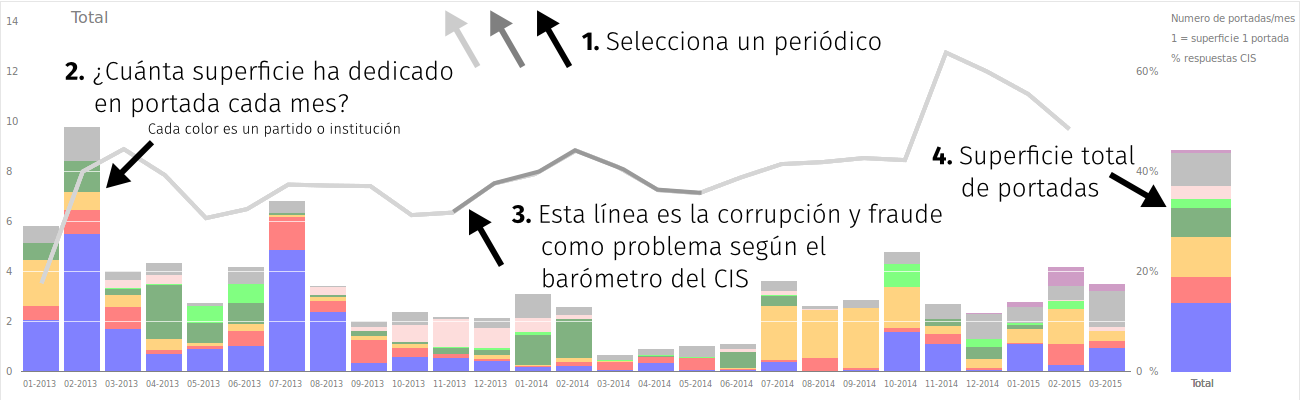
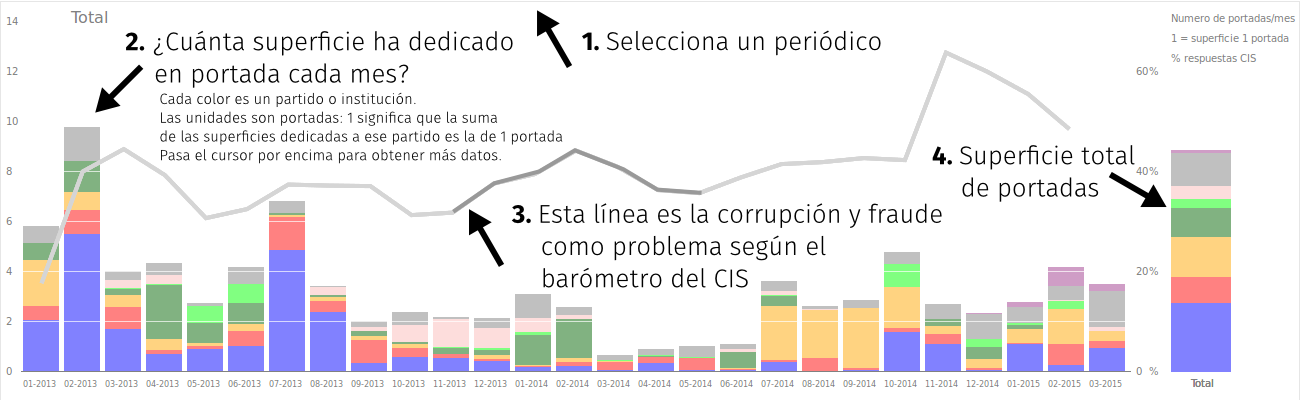
Explains abbreviations in legend

Changed region(s): [[0.0308, 0.03, 0.4308, 0.48]]

diff --git a/index.html b/index.html
@@ -40,17 +40,26 @@
 					<script>!function(d,s,id){var js,fjs=d.getElementsByTagName(s)[0],p=/^http:/.test(d.location)?'http':'https';if(!d.getElementById(id)){js=d.createElement(s);js.id=id;js.src=p+'://platform.twitter.com/widgets.js';fjs.parentNode.insertBefore(js,fjs);}}(document, 'script', 'twitter-wjs');</script> Cobertura de corrupci&oacute;n en portadas de prensa.</p>
 				<h2>Superficie dedicada en portada a casos de corrupci&oacute;n. 2013-2015</h2>
 				<p>Clasificaci&oacute;n por partido pol&iacute;tico o instituci&oacute;n. Datos mensuales.</p>
-				<h5>Leyenda: 
-					<span class="label" style="background-color:blue">PP</span> 
-					<span class="label" style="background-color:red">PSOE</span> 
-					<span class="label" style="background-color:orange">CiU</span> 
-					<span class="label" style="background-color:darkgreen">Casa Real</span> 
-					<span class="label" style="background-color:lime">Bankia</span> 
-					<span class="label" style="background-color:#FBBBB9">UGT-A y CCOO</span>
-					<span class="label" style="background-color:#9e398b">Podemos</span>
-					<span class="label" style="background-color:grey">Otros</span>
-					<img src="img/cis-line.png"> Corrupci&oacute;n y fraude como problema (Bar&oacute;metro CIS)
-				</h5>
+				<div class="row">
+					<div class="col-md-1">
+						<h4>Leyenda</h4>
+					</div>
+					<div class="col-md-11">
+						<p>
+							<span class="label" style="background-color:blue"><abbr title="Partido Popular">PP</abbr></span>
+							<span class="label" style="background-color:red"><abbr title="Partido Socialista Obrero Español (también incluye al PSC, Partido Socialista de Cataluña)">PSOE</span>
+							<span class="label" style="background-color:orange"><abbr title="Convergència i Unió">CiU</span>
+							<span class="label" style="background-color:darkgreen"><abbr title="Casa Real">Casa Real</span>
+							<span class="label" style="background-color:lime"><abbr title="Cajamadrid y Bankia">Bankia</span>
+							<span class="label" style="background-color:#FBBBB9"><abbr title="Los sindicatos mayoritarios Unión General de Trabajadores y Comisiones Obreras">UGT-A y CCOO</span>
+							<span class="label" style="background-color:#9e398b"><abbr title="Partido político Podemoss">Podemos</span>
+							<span class="label" style="background-color:grey">Otros</span>
+						</p>
+						<p>
+							<img src="img/cis-line.png"> Corrupci&oacute;n y fraude como problema (Bar&oacute;metro CIS)
+						</p>
+					</div>
+				</div>
 				<ul class="nav nav-pills" role="menu">
 					<li class="disabled"><a href="#">Selecciona un peri&oacute;dico</a></li>
 					<li><a class="m" value="Total mes" href="#">Media de todos los peri&oacute;dicos</a></li>
@@ -398,7 +407,7 @@ d3.select("#datavis").style("background","no-repeat url(''	)");
 	<p><strong>2013</strong> <a href="http://pageonex.com/numeroteca/corrupcion-spain-enero-2013/">Enero</a>&nbsp;<a href="http://pageonex.com/numeroteca/colorcorrupcion-espana-febrero-2013/">Febrero</a>&nbsp;<a href="http://pageonex.com/numeroteca/corrupcion-espana-marzo-2013/">Marzo</a>&nbsp;<a href="http://pageonex.com/numeroteca/corrupcion-espana-abril-2013/">Abril</a>&nbsp;<a href="http://pageonex.com/numeroteca/corrupcion-espana-mayo-2013/">Mayo</a>&nbsp;<a href="http://pageonex.com/numeroteca/corrupcion-espana-junio-2013/">Junio</a>&nbsp;<a href="http://pageonex.com/numeroteca/corrupcion-espana-julio-2013/">Julio</a>&nbsp;<a href="http://pageonex.com/numeroteca/corrupcion-espana-agosto-2013/">Agosto</a>&nbsp;<a href="http://pageonex.com/numeroteca/corrupcion-espana-septiembre-2013/">Septiembre</a>&nbsp;<a href="http://pageonex.com/numeroteca/corrupcion-espana-octubre-2013/">Octubre</a>&nbsp;<a href="http://pageonex.com/numeroteca/corrupcion-espana-noviembre-2013/">Noviembre</a>&nbsp;<a href="http://pageonex.com/numeroteca/corrupcion-espana-diciembre-2013/">Diciembre</a>
 	</p>
 	<p>El peri&oacute;dico La Gaceta de publicarse en papel en diciembre de 2013.</p>
-  	<p>Datos <a href="http://www.cis.es/opencms/-Archivos/Indicadores/documentos_html/TresProblemas.html">Bar&oacute;metro CIS</a>. Se han extrapolado los datos para agosto de 2013 y 2014.</p>
+  	<p>Datos <a href="http://www.cis.es/opencms/-Archivos/Indicadores/documentos_html/TresProblemas.html">Bar&oacute;metro CIS "Tres problemas principales que existen actualmente en Espa&ntilde;a"</a>. Se han extrapolado los datos para agosto de 2013 y 2014.</p>
   	<hr>
   	<p>Visualizaci&oacute;n de datos realizada por Pablo Rey Maz&oacute;n. <a href="http://numeroteca.org">numeroteca.org</a> <a href="https://twitter.com/numeroteca/">@numeroteca. C&oacute;digo disponible en <a href="https://github.com/numeroteca/colorcorrupcion">GitHub</a>
   	</p>
